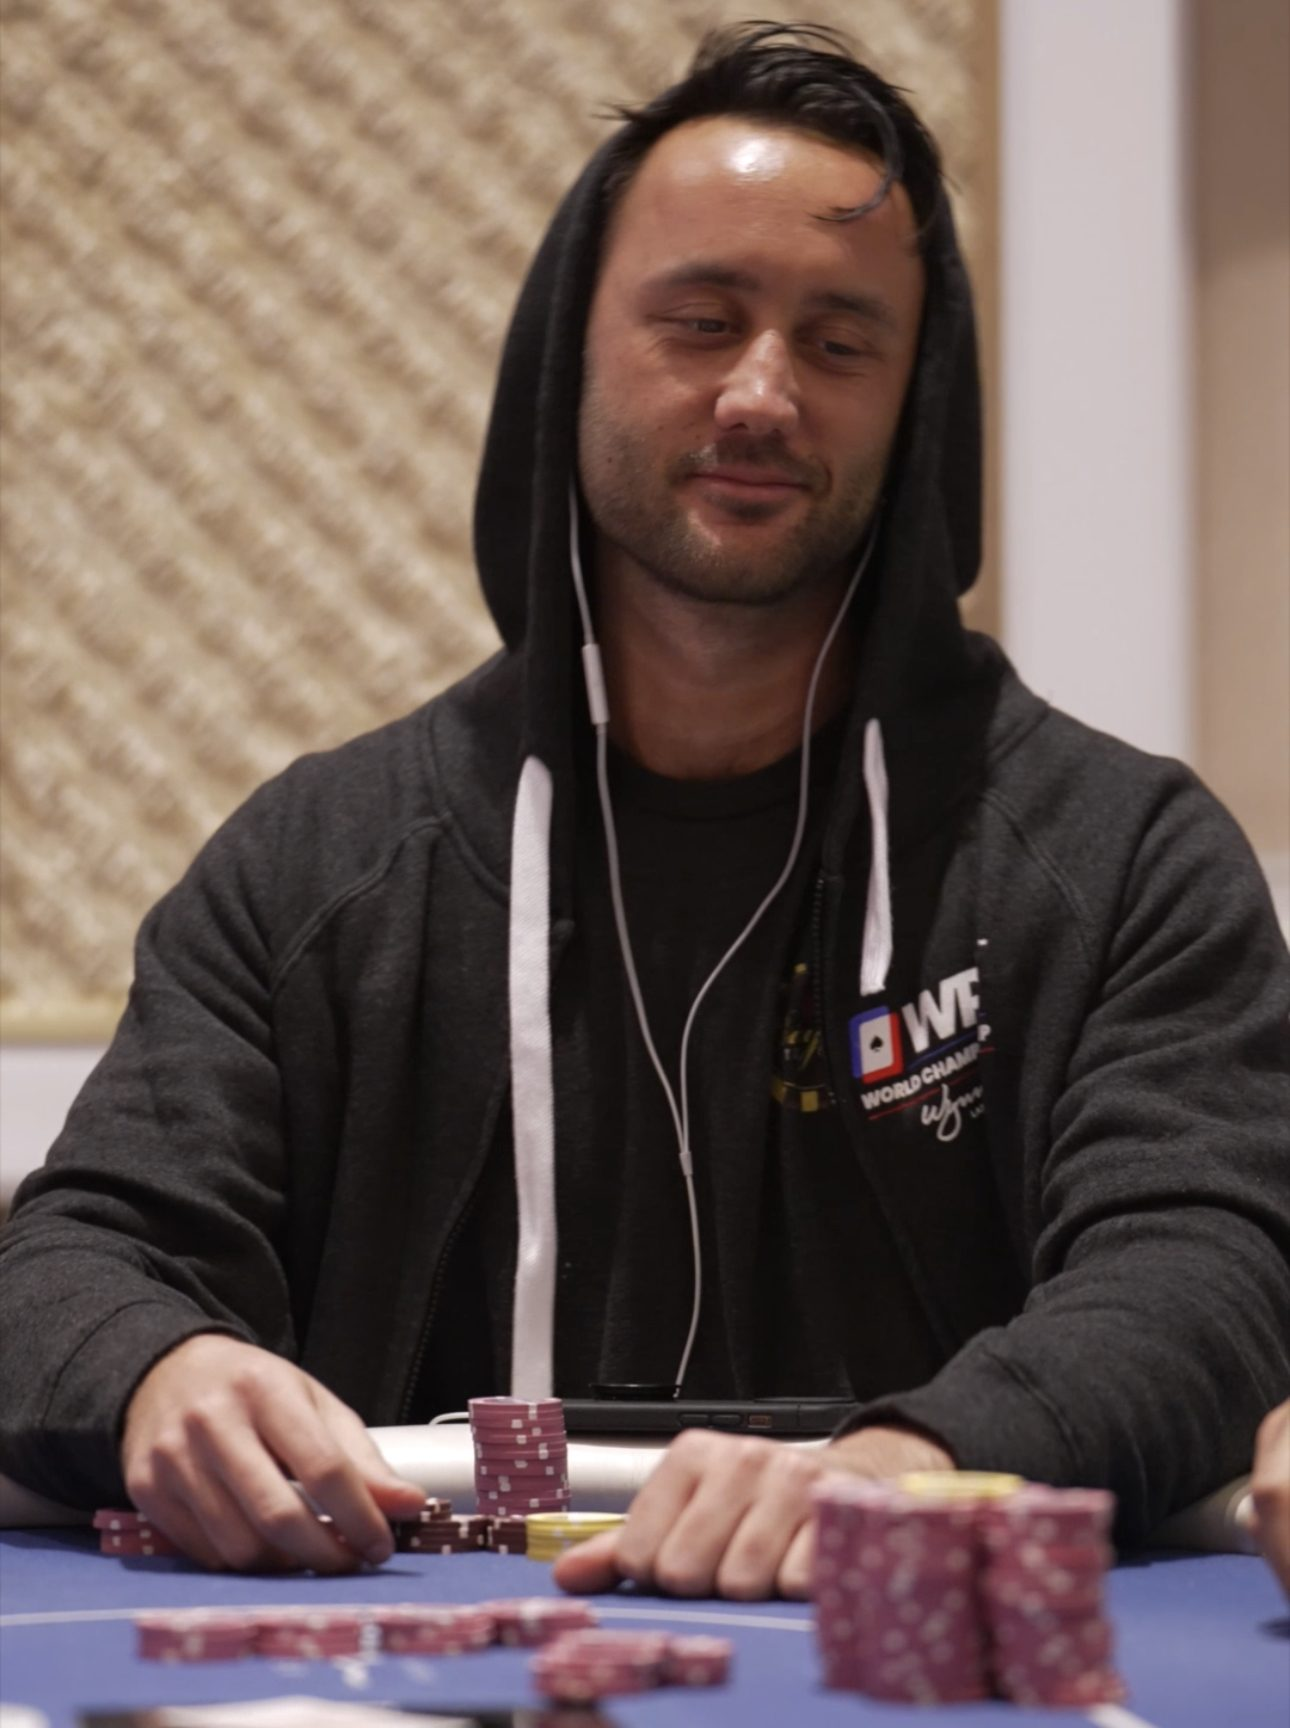
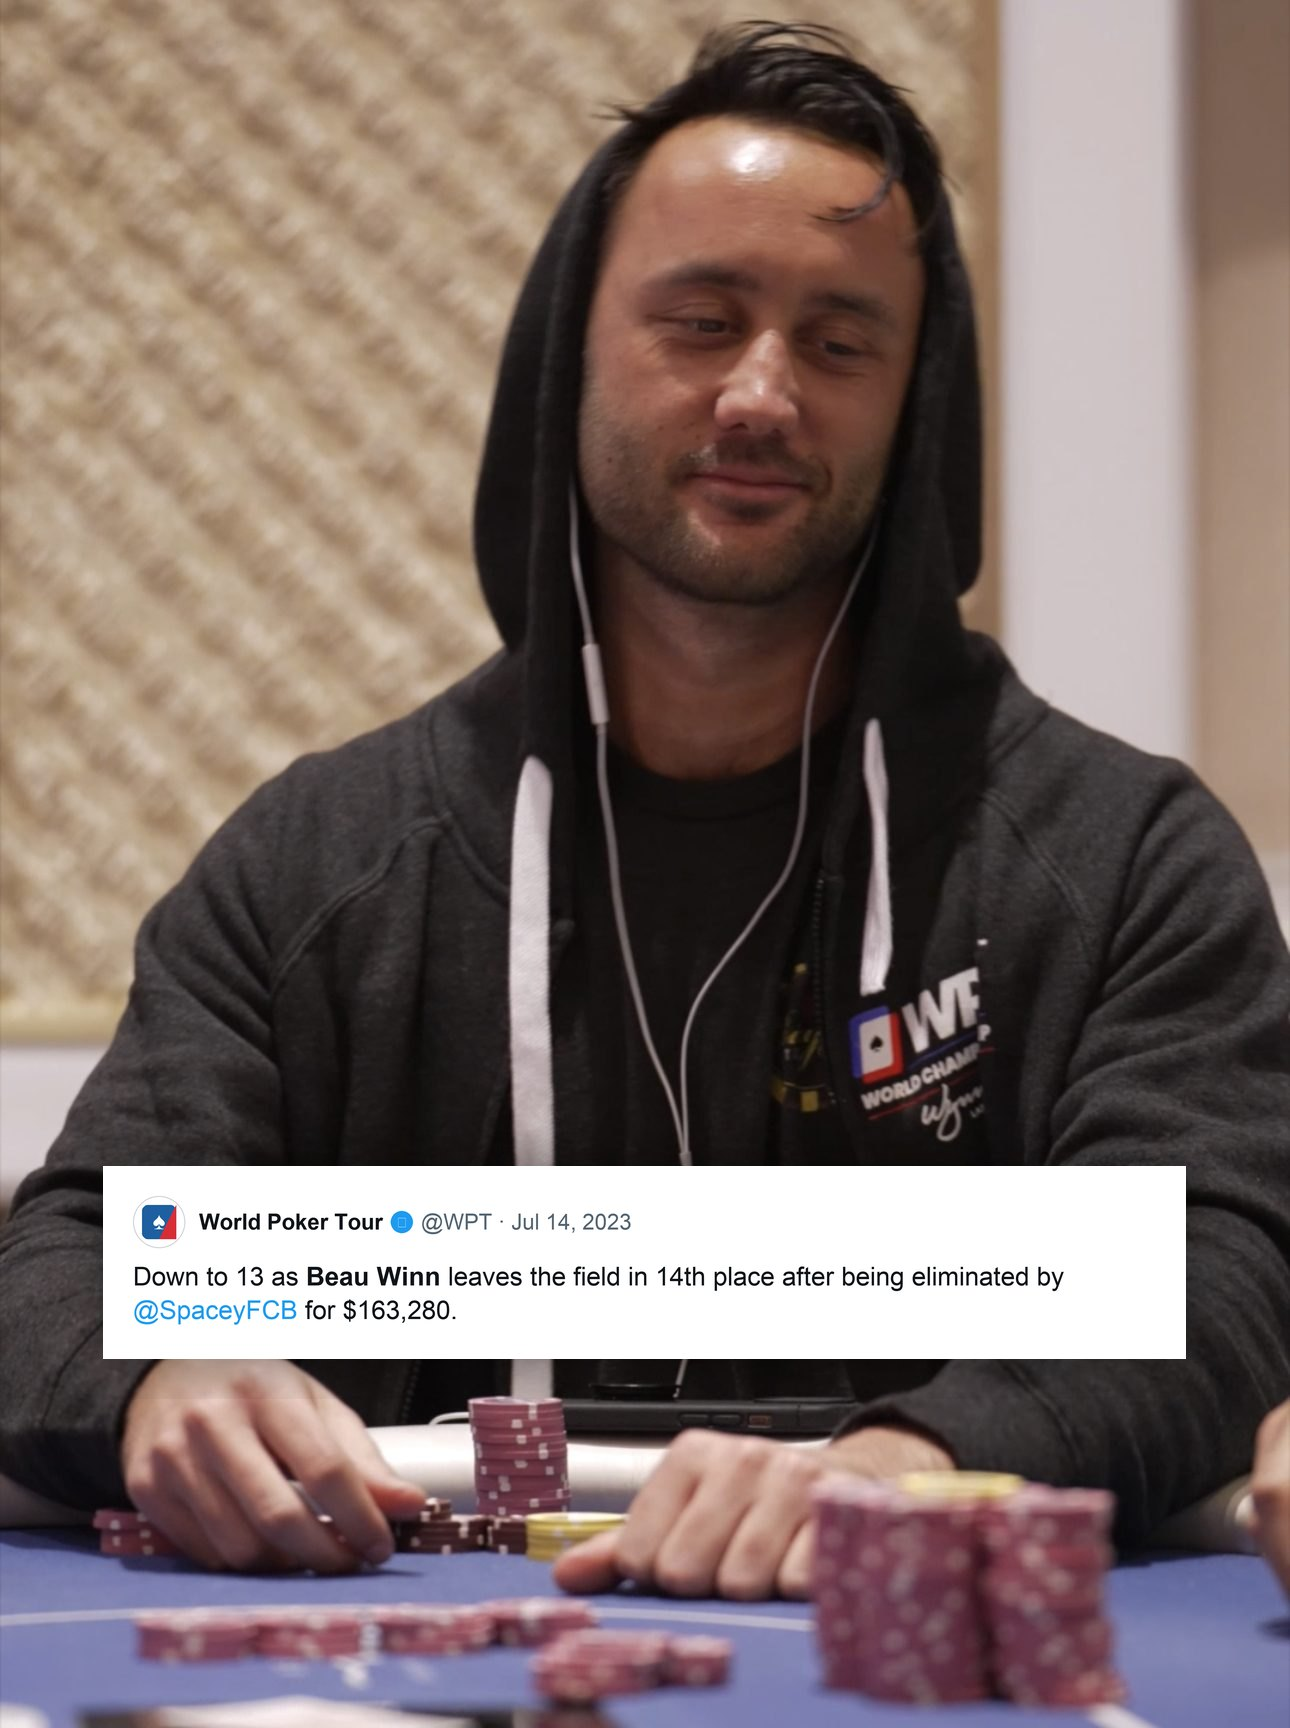
Composite WPT tweet into poker photo; refresh story and host copy
The tweet now lives inside the poker-table photo (between the WPT
jacket logo and the hands), giving the image its context and removing
the standalone card. Updates the story headline, closing quote, host
bio, and the invitation paragraph with new copy.

Changed region(s): [[0.062, 0.6562, 0.9302, 0.8125]]

diff --git a/index.html b/index.html
@@ -190,7 +190,7 @@
       <div class="reveal mx-auto mt-9 max-w-2xl space-y-6 text-xl leading-relaxed text-ink/75" style="transition-delay:.2s">
         <p>
           Long sessions in the casino. Time on screens studying ranges. Variance of the grind. Poker
-          rewards discipline and quietly takes your energy, your health, and your people in exchange.
+          rewards discipline and quietly takes your energy, your health, and your relationships in exchange.
           This week is the counter-move: a small group of poker players and entrepreneurs in the Costa
           Rican jungle, resetting your body and mind alongside like-minded people. The friendships you
           make here are the kind you keep long after you fly home.
@@ -237,26 +237,15 @@
           <span class="rule bg-sky/50"></span>
         </p>
         <h2 class="reveal mt-7 font-display text-4xl sm:text-6xl text-cream leading-[1.08]" style="transition-delay:.1s">
-          I built the week <span class="italic">I needed most.</span>
+          This is the exact week I needed most <span class="italic">during my poker career.</span>
         </h2>
-      </div>
-
-      <!-- The tweet — proof of the peak that felt like nothing -->
-      <div class="reveal mx-auto mt-14 max-w-xl" style="transition-delay:.15s">
-        <div class="bg-white p-6 sm:p-7 shadow-[0_32px_64px_-32px_rgba(0,0,0,.5)]" style="font-family: -apple-system, BlinkMacSystemFont, 'Segoe UI', sans-serif;">
-          <div class="flex items-center gap-3">
-            <span class="grid place-items-center h-10 w-10 rounded-full bg-[#1D5FA0] text-white text-lg">&#9824;</span>
-            <p class="text-[15px] text-[#0f1419]"><span class="font-bold">World Poker Tour</span> <span class="text-[#1d9bf0]">&#10004;</span> <span class="text-[#536471]">@WPT &middot; Jul 14, 2023</span></p>
-          </div>
-          <p class="mt-3 text-[17px] leading-snug text-[#0f1419]">Down to 13 as <span class="font-bold">Beau Winn</span> leaves the field in 14th place after being eliminated by <span class="text-[#1d9bf0]">@SpaceyFCB</span> for $163,280.</p>
-        </div>
       </div>
 
       <!-- Before / After -->
       <div class="mt-16 grid gap-12 lg:gap-16 sm:grid-cols-2 max-w-4xl mx-auto">
         <figure class="reveal">
           <div class="relative aspect-[3/4] overflow-hidden bg-deep2 grade">
-            <img src="images/beau-poker.jpg" alt="Beau at the World Poker Tour final tables" class="h-full w-full object-cover" onerror="this.style.display='none'" />
+            <img src="images/beau-poker.jpg" alt="Beau at the World Poker Tour final table, with the WPT tweet announcing his 14th-place finish for $163,280" class="h-full w-full object-cover" onerror="this.style.display='none'" />
             <span class="pointer-events-none absolute inset-0 border border-cream/20" aria-hidden="true"></span>
           </div>
           <figcaption class="mt-7">
@@ -287,9 +276,12 @@
         </figure>
       </div>
 
-      <p class="reveal mx-auto mt-14 max-w-2xl text-center text-sky/90 text-2xl leading-relaxed font-display italic" style="transition-delay:.2s">
-        The week that changed it wasn&rsquo;t a bigger score. It was the jungle, the practice, and the people.
-      </p>
+      <div class="reveal mx-auto mt-14 max-w-2xl text-center" style="transition-delay:.2s">
+        <p class="text-sky/90 text-2xl leading-relaxed font-display italic">
+          &ldquo;A retreat is the greatest investment I ever made in myself. I finally felt what it was like to be healthy.&rdquo;
+        </p>
+        <p class="mt-4 eyebrow !text-[.68rem] !tracking-[.24em] text-cream/60">Beau Winn</p>
+      </div>
     </div>
   </section>
 
@@ -468,14 +460,15 @@
             learned how to perform under pressure and keep my cool when it counted most.
           </p>
           <p>
-            But my biggest win came three weeks after my biggest score, when I stepped away from the
-            tables and onto my first retreat. I found yoga, meditation, the jungle, and a community of
-            people building real lives, and I found the version of myself the grind had buried.
+            But my greatest win came three weeks after my biggest tournament score, when I stepped away
+            from the tables in Las Vegas and into my first retreat in Costa Rica. I experienced yoga,
+            meditation, waterfalls, music, the tropical climate of the jungle, a community of people
+            pouring into their health, and I found a version of myself the grind had buried.
           </p>
           <p>
             Now I help high performers do the same: drop the armor, restore their health, and reconnect
-            with purpose, nature, and people who get it. Jungle Alchemy is the week I wish someone had
-            invited me on. So I&rsquo;m putting it on myself.
+            with their purpose. Jungle Alchemy is the exact week I wish someone had invited me on when I
+            was a poker player.
           </p>
         </div>
         <a href="https://calendly.com/beauwinn/jungle-alchemy-intro-call" target="_blank" rel="noopener noreferrer" class="reveal btn-luxe btn-ink mt-10 inline-block" style="transition-delay:.25s">
